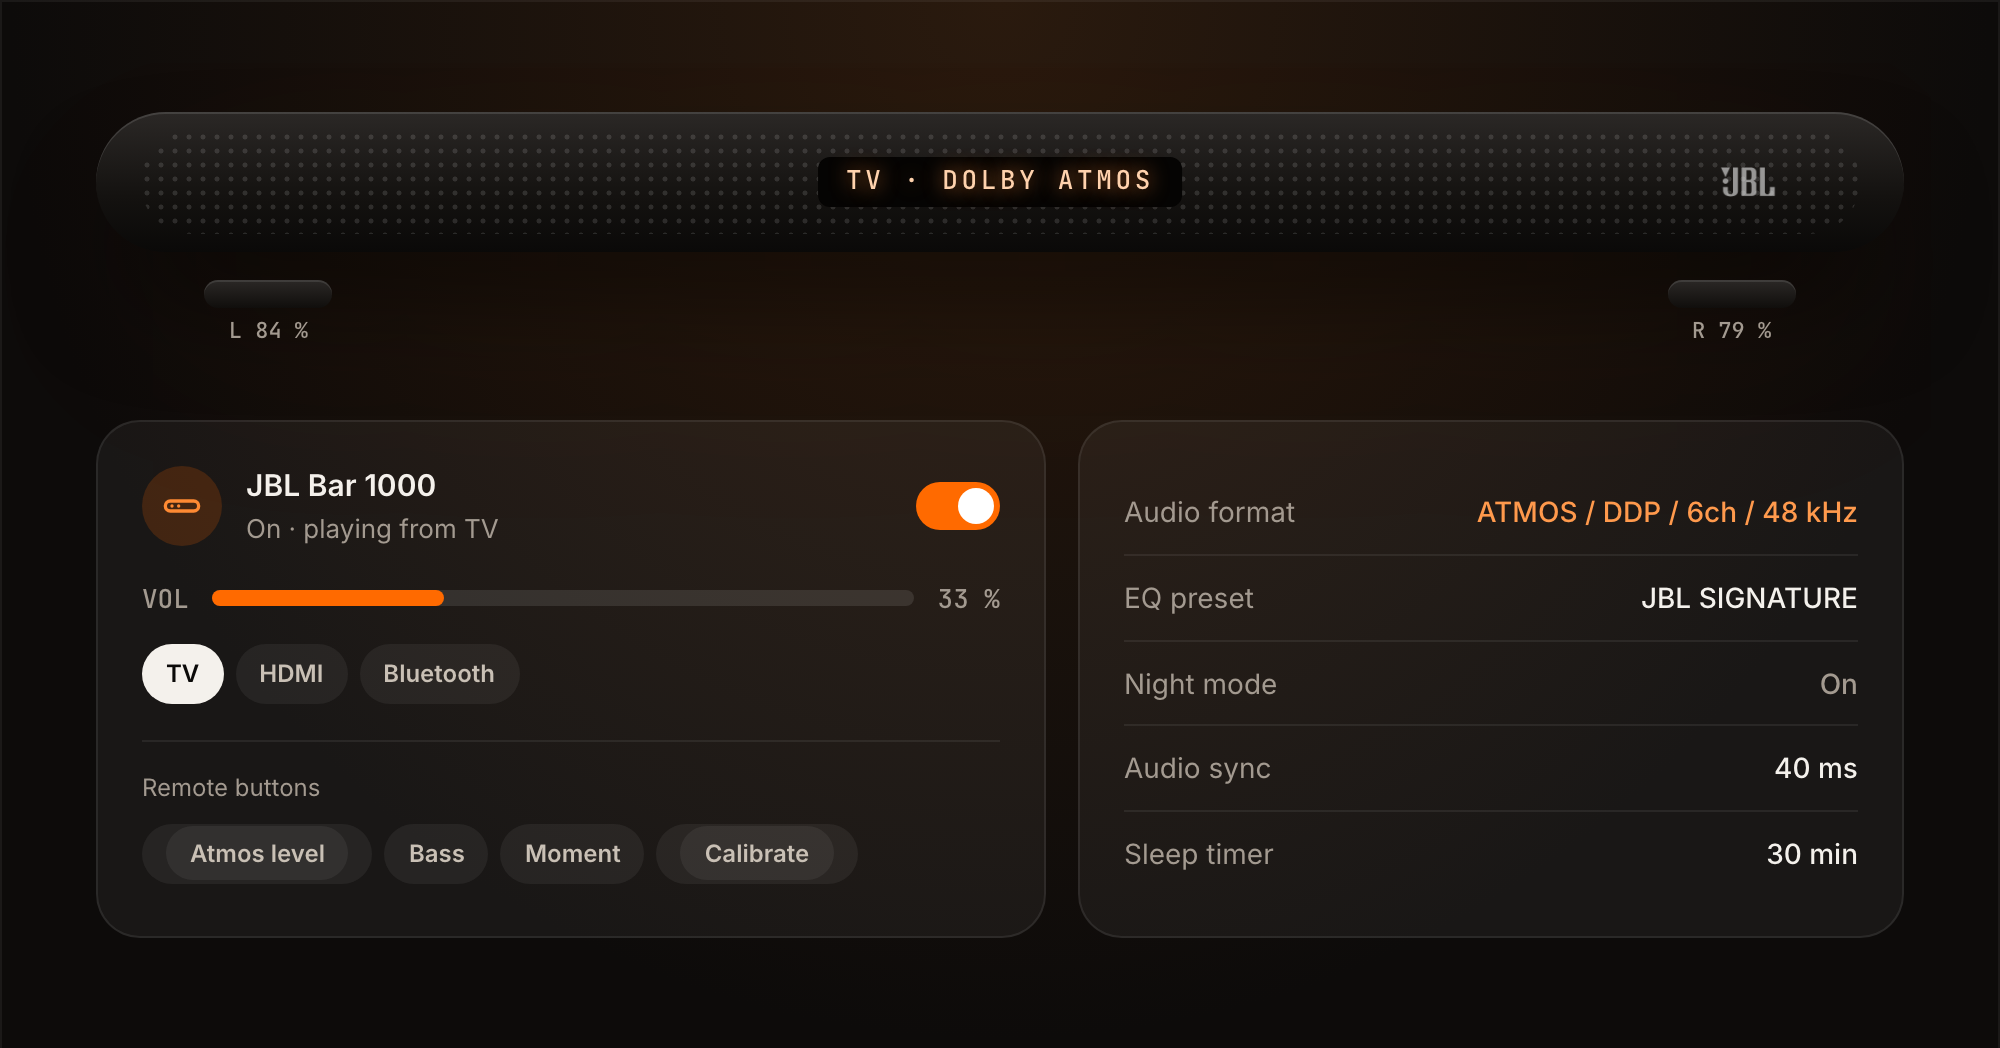
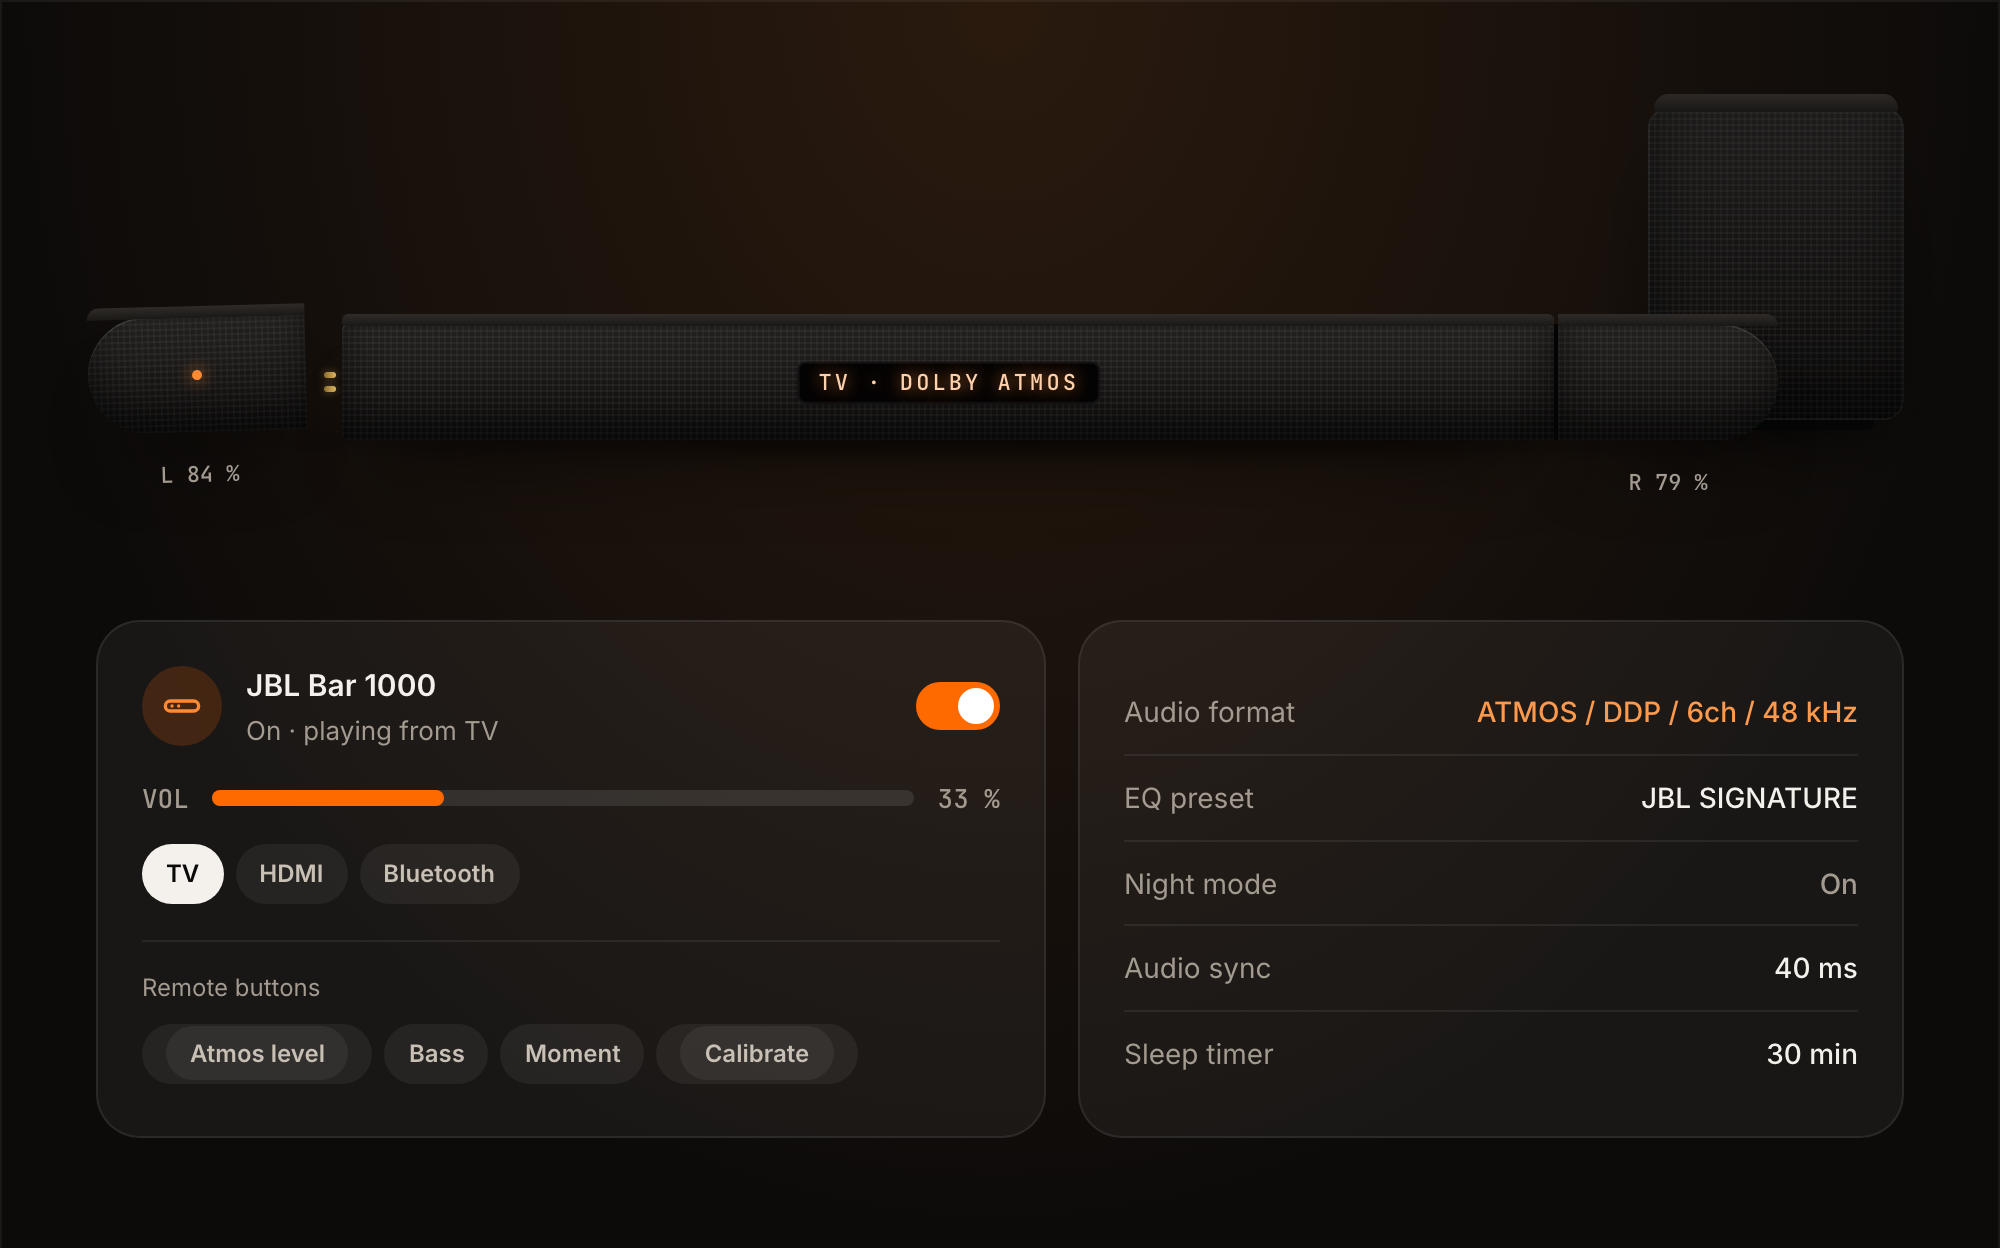
docs: closer soundbar drawing on the page and README title
The illustration now shows a flat fabric-covered soundbar with rounded ends,
a small display window, detachable rear speakers at both ends (left one pulled
off with charging contacts) and a subwoofer behind it. Shapes only, no logo.
readme-stage and the README title image re-rendered.

Claude-Session: https://claude.ai/code/session_01ULsc5ZrKnvkcrEhHsqXvCz

diff --git a/docs/index.html b/docs/index.html
@@ -104,21 +104,38 @@ section.tint { background: var(--bg-2); }
 .pill i { width: 7px; height: 7px; border-radius: 50%; background: var(--orange); display: inline-block; }
 
 /* Bühne: stilisierte Soundbar mit Karte (bleibt in beiden Themes dunkel) */
+/* Zeichnung im Stil einer Bar 1000: flache Stoff-Soundbar, abnehmbare Rears an den Enden, Subwoofer dahinter. Nur Formen, kein Logo. */
+.rig { position: relative; padding: calc(clamp(64px, 12vw, 128px) / 0.82 - clamp(38px, 5.4vw, 58px) + 8px) 0 34px; }
+.rig::after { content: ""; position: absolute; left: 4%; right: 2%; bottom: 22px; height: 26px; border-radius: 50%; background: radial-gradient(closest-side, rgba(0,0,0,0.7), transparent); filter: blur(4px); z-index: 0; }
+.fabric { background-color: #161413;
+  background-image: repeating-linear-gradient(0deg, rgba(255,255,255,0.045) 0 1px, transparent 1px 3px), repeating-linear-gradient(90deg, rgba(255,255,255,0.035) 0 1px, transparent 1px 3px),
+    linear-gradient(180deg, rgba(255,255,255,0.06), rgba(0,0,0,0.35)); }
+.woofer { position: absolute; right: 0; bottom: 44px; filter: brightness(0.85); width: clamp(64px, 12vw, 128px); aspect-ratio: 0.82; border-radius: 10px; z-index: 1;
+  box-shadow: inset 0 0 0 1px rgba(255,255,255,0.05), inset 0 -18px 30px rgba(0,0,0,0.45), 0 20px 40px -18px rgba(0,0,0,0.9); }
+.woofer::before { content: ""; position: absolute; left: 3px; right: 3px; top: -7px; height: 9px; border-radius: 8px 8px 2px 2px; background: linear-gradient(180deg, #34302d, #1d1b19); }
+.woofer::after { content: ""; position: absolute; left: 12%; right: 12%; bottom: -5px; height: 5px; border-radius: 0 0 4px 4px; background: #070606; }
+.sb { position: relative; z-index: 2; display: flex; align-items: stretch; width: 93%; height: clamp(38px, 5.4vw, 58px); }
+.sb > * { position: relative; box-shadow: inset 0 1px 0 rgba(255,255,255,0.1), inset 0 -10px 18px rgba(0,0,0,0.45), 0 26px 40px -22px rgba(0,0,0,0.95); }
+.sb > *::before { content: ""; position: absolute; left: 0; right: 0; top: -5px; height: 6px; background: linear-gradient(180deg, #2f2b28, #1a1816); border-radius: inherit; border-bottom-left-radius: 0; border-bottom-right-radius: 0; }
+.sb .body { flex: 1; border-radius: 3px; min-width: 0; }
+.sb .end { width: 13%; flex: none; }
+.sb .end.l { border-radius: 999px 3px 3px 999px; margin-right: 14px; transform: translate(-4px, -4px) rotate(-1.5deg); }
+.sb .end.r { border-radius: 3px 999px 999px 3px; margin-left: 2px; }
+.sb .end.r::after { content: ""; position: absolute; left: -2px; top: 0; bottom: 0; width: 2px; background: #050404; }
+.sb .end b { position: absolute; top: calc(100% + 16px); left: 50%; transform: translateX(-50%); font: 500 11px/1 var(--mono); color: #a39a90; white-space: nowrap; }
+.sb .end i { position: absolute; top: 50%; left: 50%; width: 5px; height: 5px; margin: -2.5px 0 0 -2.5px; border-radius: 50%; background: #ff8a33; box-shadow: 0 0 8px rgba(255,138,51,0.9); }
+.sb .pins { position: absolute; left: -9px; top: 50%; transform: translateY(-50%); display: grid; gap: 4px; }
+.sb .pins span { width: 6px; height: 3px; border-radius: 2px; background: linear-gradient(90deg, #8a6a2c, #e0b660); box-shadow: 0 0 4px rgba(224,182,96,0.4); }
+.sb .display { position: absolute; left: 50%; top: 50%; transform: translate(-50%, -50%); padding: 3px 10px; border-radius: 4px; background: #040303; box-shadow: inset 0 0 0 1px rgba(255,255,255,0.06);
+  font: 500 clamp(8px, 1.1vw, 11px)/1.3 var(--mono); letter-spacing: 0.14em; color: #ffd2ad; text-shadow: 0 0 8px rgba(255,140,60,0.8); white-space: nowrap; }
+
 .stage { position: relative; margin: clamp(48px, 7vw, 84px) auto 0; max-width: 1000px; border-radius: var(--radius-lg); padding: clamp(28px, 5vw, 56px) clamp(16px, 4vw, 48px);
   background: radial-gradient(ellipse at 50% 0%, #2a1a0e, #0d0b0a 70%); box-shadow: var(--shadow-lg), inset 0 0 0 1px rgba(255,255,255,0.06); color: #f4f1ec; }
-.bar { position: relative; height: clamp(46px, 7vw, 70px); border-radius: 999px; background: linear-gradient(180deg, #2b2826, #141210 60%, #0a0908);
-  box-shadow: 0 30px 60px -20px rgba(0,0,0,0.9), 0 40px 120px -30px rgba(255,106,0,0.35), inset 0 1px 0 rgba(255,255,255,0.12); overflow: hidden; }
-.bar::before { content: ""; position: absolute; inset: 9px 22px; border-radius: 999px; background-image: radial-gradient(circle, rgba(255,255,255,0.12) 1.1px, transparent 1.4px); background-size: 7px 7px; }
-.bar .display { position: absolute; left: 50%; top: 50%; transform: translate(-50%, -50%); padding: 4px 14px; border-radius: 6px; background: #050403; font: 500 clamp(10px, 1.4vw, 13px)/1.3 var(--mono); letter-spacing: 0.14em; color: #ffd2ad; text-shadow: 0 0 10px rgba(255,140,60,0.8); white-space: nowrap; }
-.bar .logo { position: absolute; right: 7%; top: 50%; transform: translateY(-50%); width: clamp(22px, 3vw, 30px); height: auto; border-radius: 5px; filter: invert(1); opacity: .55; }
 /* Das Logo ist dunkel auf transparent: im Dunkelmodus hell zeichnen */
 @media (prefers-color-scheme: dark) { :root:not([data-theme="light"]) .brand img { filter: invert(1); } }
 :root[data-theme="dark"] .brand img { filter: invert(1); }
 .btns { margin-top: 18px; padding-top: 14px; border-top: 1px solid rgba(255,255,255,0.07); }
 .btns small { display: block; font-size: 12px; color: #a39a90; margin-bottom: 8px; }
-.rears { display: flex; justify-content: space-between; margin-top: 14px; padding: 0 6%; }
-.rear { width: clamp(42px, 7vw, 64px); height: 14px; border-radius: 999px; background: linear-gradient(180deg, #2b2826, #100e0c); box-shadow: inset 0 1px 0 rgba(255,255,255,0.1); position: relative; }
-.rear b { position: absolute; top: 20px; left: 50%; transform: translateX(-50%); font: 500 11px/1 var(--mono); color: #a39a90; white-space: nowrap; }
 .cards { display: grid; grid-template-columns: 1.15fr 1fr; gap: 16px; margin-top: clamp(40px, 5vw, 56px); text-align: left; }
 .hc { background: rgba(255,255,255,0.05); border: 1px solid rgba(255,255,255,0.08); border-radius: 22px; padding: 20px 22px; min-width: 0; }
 .hc .top { display: flex; align-items: center; gap: 12px; }
@@ -257,7 +274,6 @@ footer .fine { flex-basis: 100%; line-height: 1.6; }
   .repo { flex-wrap: wrap; padding: 12px 14px; gap: 10px; }
   .repo code { flex-basis: 100%; font-size: clamp(12px, 3.4vw, 14px); }
   .copy { margin-left: auto; }
-  .bar .logo { display: none; }
   .bands { height: 160px; gap: 4px; }
   .band small { font-size: 9px; }
   .eq-foot { grid-template-columns: 1fr 1fr; }
@@ -310,9 +326,15 @@ footer .fine { flex-basis: 100%; line-height: 1.6; }
       <span class="en">Home Assistant 2026.9 or newer &middot; English and German &middot; Apache 2.0</span><span class="de">Home Assistant 2026.9 oder neuer &middot; Deutsch und Englisch &middot; Apache 2.0</span>
     </p>
 
-    <div class="stage reveal d3" role="img" aria-label="Illustration: a stylised soundbar with two rear speakers, below it a media player card and a list of entity values. The values are made up.">
-      <div class="bar"><span class="display">TV &middot; DOLBY ATMOS</span><img class="logo" src="logo.png" alt=""></div>
-      <div class="rears"><span class="rear"><b>L 84 %</b></span><span class="rear"><b>R 79 %</b></span></div>
+    <div class="stage reveal d3" role="img" aria-label="Illustration: a stylised soundbar with detachable rear speakers at both ends and a subwoofer behind it, below it a media player card and a list of entity values. The values are made up.">
+      <div class="rig" aria-hidden="true">
+        <div class="woofer fabric"></div>
+        <div class="sb">
+          <div class="end l fabric"><i></i><b>L 84 %</b></div>
+          <div class="body fabric"><span class="pins"><span></span><span></span></span><span class="display">TV &middot; DOLBY ATMOS</span></div>
+          <div class="end r fabric"><b>R 79 %</b></div>
+        </div>
+      </div>
       <div class="cards">
         <div class="hc">
           <div class="top">
